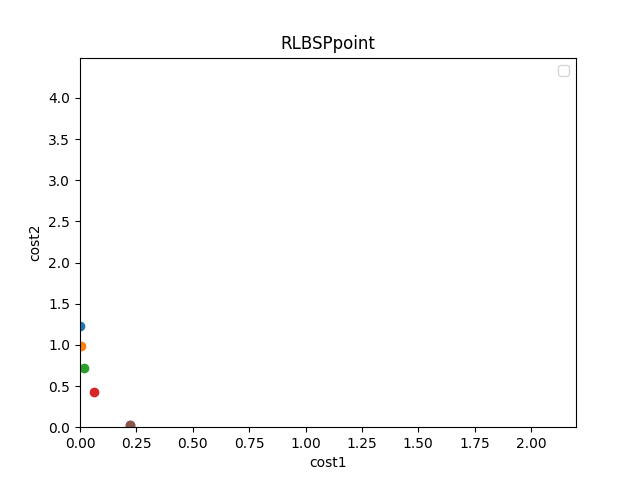
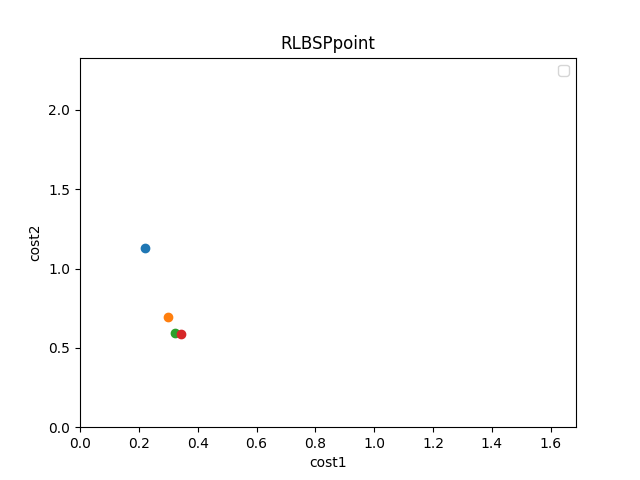
修改RLBSP的印path過程，及把fid與prob轉回機率

diff --git a/code/twoState/SinglePath.cpp b/code/twoState/SinglePath.cpp
@@ -102,6 +102,8 @@ void buildGraph(string name) {
 
   for (int i = 0; i < n; i++) {
     in >> x[i] >> y[i] >> memory[i] >> swapping_prob[i];
+    cout << "Node " << i << " memory : " << memory[i]
+         << " swappingSuccessProb : " << swapping_prob[i] << endl;
   }
 
   in.close();
@@ -110,6 +112,7 @@ void buildGraph(string name) {
   for (int i = 0; i < n - 1; i++) {
     for (int j = i + 1; j < n; j++) {
       // 若 2 點距離超過 fiber distance，不建邊
+      cout << "i :" << i << " j : " << j << " dis : " << distance(i, j) << endl;
       if (distance(i, j) > fiber_distance)
         break;
 
@@ -177,6 +180,7 @@ void Initial(unordered_map<Node *, array<double, 2>> &dist,
 }
 
 vector<array<double, 2>> dfsAns, RLBSPAns;
+vector<vector<Node *>> dfsNode;
 void dfs(unordered_map<Node *, bool> &used, Node *cur, Node *d, double c1,
          double c2) {
   if (cur == d) {
@@ -193,14 +197,18 @@ void dfs(unordered_map<Node *, bool> &used, Node *cur, Node *d, double c1,
   used[cur] = false;
 }
 
-void printPath(unordered_map<Node *, array<Node *, 2>> &p, Node *cur,
-               Node *source) {
-  if (cur == source) {
-    cout << "path : " << cur->ID << "&" << cur->memory << " ";
-    return;
+void printPath(vector<Node *> &Cpath) {
+  vector<int> memoryUsed;
+  cout << "path : ";
+  for (int i = 0; i < Cpath.size() - 1; i++) {
+    cout << Cpath[i]->ID << " ";
+    if (i != 0)
+      memoryUsed.push_back(Cpath[i]->memory);
   }
-  printPath(p, p[cur][1], source);
-  cout << cur->ID << "&" << cur->memory << " ";
+  cout << endl << "mem  :  ";
+  for (auto &c : memoryUsed)
+    cout << c << " ";
+  cout << endl;
 }
 
 bool over_Threshold(double cost1) { return cost1 > -ln(threshold); }
@@ -275,11 +283,26 @@ dijkstra_on_cost2(unordered_map<Node *, array<double, 2>> &dist2, Node *s,
   return dist2[d];
 }
 
+void getPath(unordered_map<Node *, array<Node *, 2>> &parent,
+             vector<Node *> &Cpath, Node *cur, Node *s) {
+  if (cur == s) {
+    Cpath.push_back(cur);
+    return;
+  }
+  getPath(parent, Cpath, parent[cur][1], s);
+  Cpath.push_back(cur);
+  return;
+}
+
 void RLBSP(unordered_map<Node *, array<double, 2>> &dist,
            unordered_map<Node *, array<Node *, 2>> &parent, Node *s, Node *d) {
   unordered_map<Node *, double> theta;
   unordered_map<Node *, double> minDiff;
   double lastratio = 0;
+  vector<Node *> Cpath;
+  double d1 = dist[d][0], d2 = dist[d][1];
+  Cpath.clear();
+  getPath(parent, Cpath, d, s);
   priority_queue<Label> pq;
   // Algo1中的4,5行
   for (auto &[id, m2] : nodeMap) {
@@ -298,12 +321,12 @@ void RLBSP(unordered_map<Node *, array<double, 2>> &dist,
         double diffCost1 = newCost1 - dist[cur][0],
                diffCost2 = newCost2 - dist[cur][1];
         if (diffCost2 < 0) {
-          if (diffCost1 < 0)
-            continue;
           double curTheta = -diffCost1 / diffCost2;
           if (curTheta == minTheta) {
-            minCost2 = min(minCost2, diffCost2);
-            parent[cur][0] = prevNode;
+            if (diffCost2 <= minCost2) {
+              minCost2 = diffCost2;
+              parent[cur][0] = prevNode;
+            }
           } else if (curTheta < minTheta) {
             minTheta = curTheta;
             minCost2 = diffCost2;
@@ -318,7 +341,6 @@ void RLBSP(unordered_map<Node *, array<double, 2>> &dist,
       }
     }
   }
-
   while (!pq.empty()) {
     Label temp = pq.top();
     double slope = temp.slope, diffCost = temp.diffCost;
@@ -330,6 +352,10 @@ void RLBSP(unordered_map<Node *, array<double, 2>> &dist,
       continue;
 
     // output part
+    // cout << slope << " " << diffCost << " " << cur->ID << " " << cur->memory
+    // << endl;
+
+    // cout << "Cost d: " << dist[d][0] << " " << dist[d][1] << endl;
     /*
     cout << endl;
     cout << "pop : " << slope << " " << diffCost << " " << cur->ID << endl;
@@ -350,22 +376,25 @@ void RLBSP(unordered_map<Node *, array<double, 2>> &dist,
     cout << endl;
     */
 
-    if (cur == d) {
-      if (slope >= lastratio) {
-        cout << "cost1 : " << dist[d][0] << " cost2 : " << dist[d][1] << endl;
-        RLBSPAns.push_back({dist[d][0], dist[d][1]});
-        printPath(parent, d, s);
-        cout << endl;
-        lastratio = slope;
-      }
-    }
-
     minDiff[cur] = DBL_MAX;
-    dist[cur][0] = dist[cur][0] - (slope * diffCost);
-    dist[cur][1] = dist[cur][1] + diffCost;
     theta[cur] = DBL_MAX;
     parent[cur][1] = parent[cur][0];
     parent[cur][0] = nullptr;
+    dist[cur][0] = dist[cur][0] - (slope * diffCost);
+    dist[cur][1] = dist[cur][1] + diffCost;
+
+    if (cur == d) {
+      if (slope >= lastratio) {
+        cout << "\nfidelity : " << exp(-d1) << " prob : " << exp(-d2) << endl;
+        RLBSPAns.push_back({d1, d2});
+        printPath(Cpath);
+        lastratio = slope;
+      }
+      Cpath.clear();
+      getPath(parent, Cpath, d, s);
+      d1 = dist[d][0];
+      d2 = dist[d][1];
+    }
 
     // 13行
     double minTheta = DBL_MAX, minCost2 = DBL_MAX;
@@ -419,14 +448,9 @@ void RLBSP(unordered_map<Node *, array<double, 2>> &dist,
 
       double curTheta = -diffCost1 / diffCost2;
       if (diffCost2 < 0) {
-        if (diffCost1 < 0)
-          continue;
         if ((curTheta < theta[nxtNode]) ||
             ((curTheta == theta[nxtNode]) && (diffCost2 < minDiff[nxtNode]))) {
           pq.push({curTheta, diffCost2, nxtNode});
-          // cout << "Push 15: [" << curTheta << " ," << diffCost2 << " ," <<
-          // j
-          // << "] " << endl;
           minDiff[nxtNode] = diffCost2;
           theta[nxtNode] = curTheta;
           parent[nxtNode][0] = cur;
@@ -434,9 +458,9 @@ void RLBSP(unordered_map<Node *, array<double, 2>> &dist,
       }
     }
   }
-  cout << "cost1 : " << dist[d][0] << " cost2 : " << dist[d][1] << endl;
-  RLBSPAns.push_back({dist[d][0], dist[d][1]});
-  printPath(parent, d, s);
+  cout << "\nfidelity : " << exp(-d1) << " prob : " << exp(-d2) << endl;
+  RLBSPAns.push_back({d1, d2});
+  printPath(Cpath);
 }
 
 // 寫入txt，印圖用
@@ -452,7 +476,7 @@ void write_to_txt(vector<array<double, 2>> &v, string name) {
 }
 
 int main() {
-  buildGraph("graph.txt");
+  buildGraph("graph_paper_example.txt");
   // buildExampleGraph();
   //   printGraph();
   unordered_map<Node *, array<double, 2>> dist; // Node : {d1,d2}
@@ -468,8 +492,8 @@ int main() {
     cout << "can't arrive dst" << endl;
     return 0;
   }
-  cout << "Initial shortest path cost : " << dist[dst][0] << " " << dist[dst][1]
-       << endl;
+  // cout << "Initial shortest path cost : " << dist[dst][0] << " " <<
+  // dist[dst][1] << endl;
   dfs(used, src, dst, 0, 0);
   RLBSP(dist, parent, src, dst);
   write_to_txt(dfsAns, "allpoint.txt");

diff --git a/code/twoState/main.py b/code/twoState/main.py
@@ -153,7 +153,7 @@ print(num_of_node, file=f)
 for n in G.nodes():
     (p1, p2) = positions[n]
     print(
-        str(p1 * 200)
+        str(p1 * 300)
         + " "
         + str(p2 * 300)
         + " "

diff --git a/code/twoState/formula.cpp b/code/twoState/formula.cpp
@@ -32,6 +32,7 @@ public:
   int ID;
   int memory;
   vector<path> neighbor, parent;
+  Node() { ; }
   Node(int id, int m) : ID(id), memory(m) { ; }
 };
 
